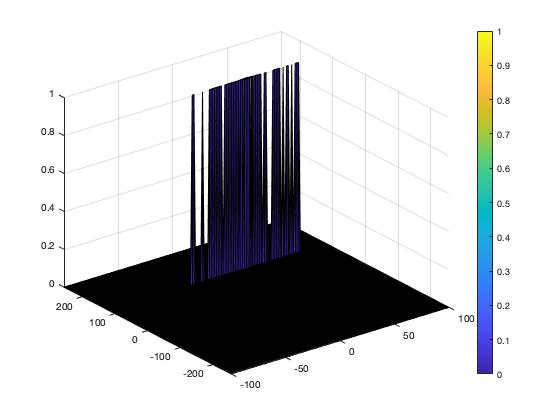
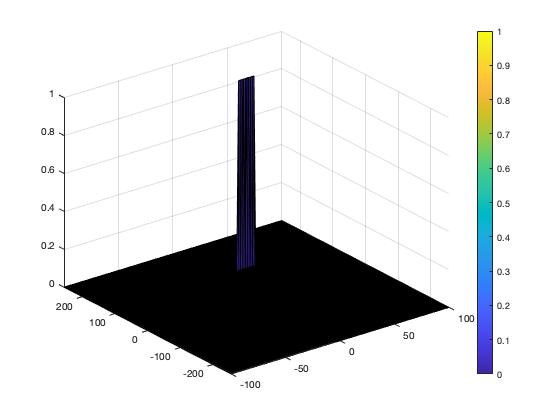
Requested changes

Changed region(s): [[0.3339, 0.1548, 0.5464, 0.681]]

diff --git a/assignment.m b/assignment.m
@@ -136,13 +136,13 @@ figure,surf(doppler_axis,range_axis,RDM);
 
 %Slide Window through the complete Range Doppler Map
 
-Tr = 10;
-Td = 8;
+Tr = 8;
+Td = 6;
 
 Gr = 4;
 Gd = 4;
 
-offset = 6;
+offset = 10;
 
 thresholdBlock = zeros(size(RDM));
 

diff --git a/README.md b/README.md
@@ -127,7 +127,7 @@ end
 ...
 ```
 
-Eventually we plot the values stored in th _thresholdBlock_. The cell sizes for training and guard cells used to create the plot are as follows: `Tr=10` and `Td=8` respectively `Gr=4` and `Gd=4`. The offset was selected as `offset=6`.
+Eventually we plot the values stored in th _thresholdBlock_. The cell sizes for training and guard cells used to create the plot are as follows: `Tr=8` and `Td=6` respectively `Gr=4` and `Gd=4`. The offset was selected as `offset=10`.
 
 
 <img src="static/result.jpg" width="820" height="248" />
